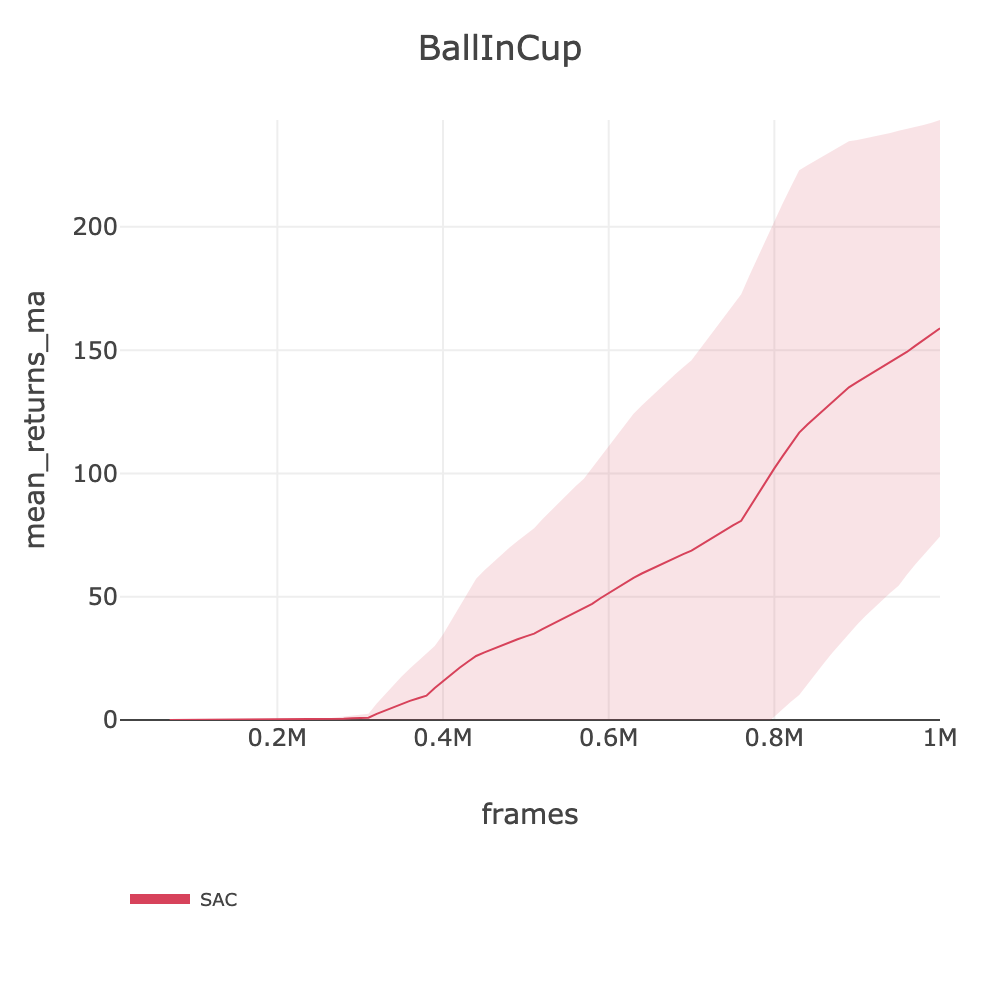
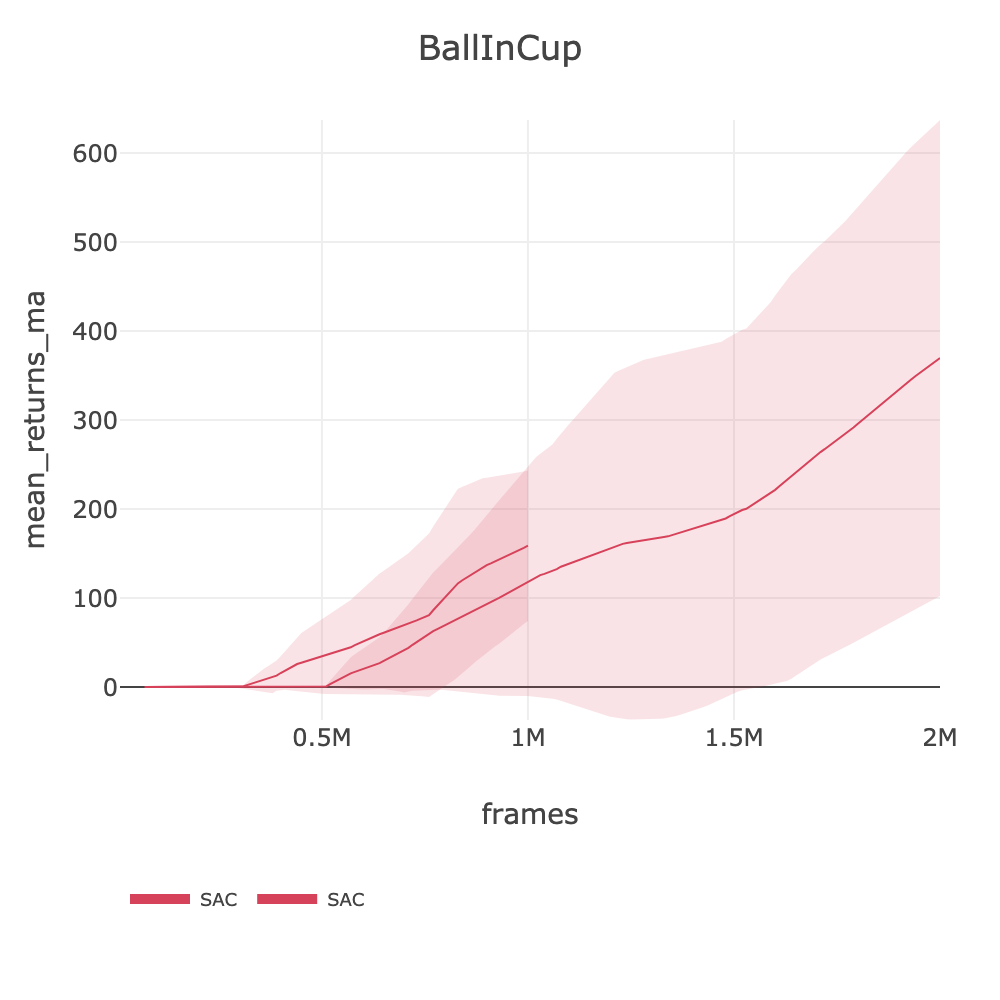
feat: Phase 5 BallInCup SAC 2M (369.78), up from 158.88

diff --git a/docs/BENCHMARKS.md b/docs/BENCHMARKS.md
@@ -792,7 +792,7 @@ source .env && slm-lab run-remote --gpu -s env=playground/CartpoleBalance -s max
 |-------------|-----|-----|-------------|-----|--------|------------|---------|
 | playground/AcrobotSwingup | - | 46.28 | ~63 | ~67 (SAC-UTD1/4e) | 1M | ~4.6h | [sac_playground_arc_utd1_acrobotswingup_2026_03_06_221001](https://huggingface.co/datasets/SLM-Lab/benchmark-dev/tree/main/data/sac_playground_arc_utd1_acrobotswingup_2026_03_06_221001) |
 | playground/AcrobotSwingupSparse | - | 0.00 | ~20 | ~67 (SAC-UTD1/4e) | 1M | ~4.6h | [sac_playground_arc_utd1_acrobotswingupsparse_2026_03_06_221029](https://huggingface.co/datasets/SLM-Lab/benchmark-dev/tree/main/data/sac_playground_arc_utd1_acrobotswingupsparse_2026_03_06_221029) |
-| playground/BallInCup | - | 158.88 | ~944 | ~344 (SAC-fast/64e) | 1M | ~0.8h | [sac_playground_arc_fast_ballincup_2026_03_06_181754](https://huggingface.co/datasets/SLM-Lab/benchmark-dev/tree/main/data/sac_playground_arc_fast_ballincup_2026_03_06_181754) |
+| playground/BallInCup | - | 369.78 | ~944 | ~344 (SAC-fast/64e) | 2M | ~1.0h | [sac_playground_arc_fast_ballincup_2026_03_07_082212](https://huggingface.co/datasets/SLM-Lab/benchmark-dev/tree/main/data/sac_playground_arc_fast_ballincup_2026_03_07_082212) |
 | playground/CartpoleBalance | 918.12 | - | ~995 | ~2000 (PPO/256e) | 2M | ~0.3h | [ppo_playground_arc_cartpolebalance_2026_03_06_153756](https://huggingface.co/datasets/SLM-Lab/benchmark-dev/tree/main/data/ppo_playground_arc_cartpolebalance_2026_03_06_153756) |
 | playground/CartpoleBalance (DR128) | - | 613.83 | ~995 | ~3540 (SAC-DR128/128e) | 10M | ~0.8h | [sac_playground_arc_dr128_cartpolebalance_2026_03_06_181905](https://huggingface.co/datasets/SLM-Lab/benchmark-dev/tree/main/data/sac_playground_arc_dr128_cartpolebalance_2026_03_06_181905) |
 | playground/CartpoleBalanceSparse | 504.59 | - | ~992 | ~310 (PPO/256e) | 1M | ~0.9h | [ppo_playground_arc_cartpolebalancesparse_2026_03_06_181842](https://huggingface.co/datasets/SLM-Lab/benchmark-dev/tree/main/data/ppo_playground_arc_cartpolebalancesparse_2026_03_06_181842) |
